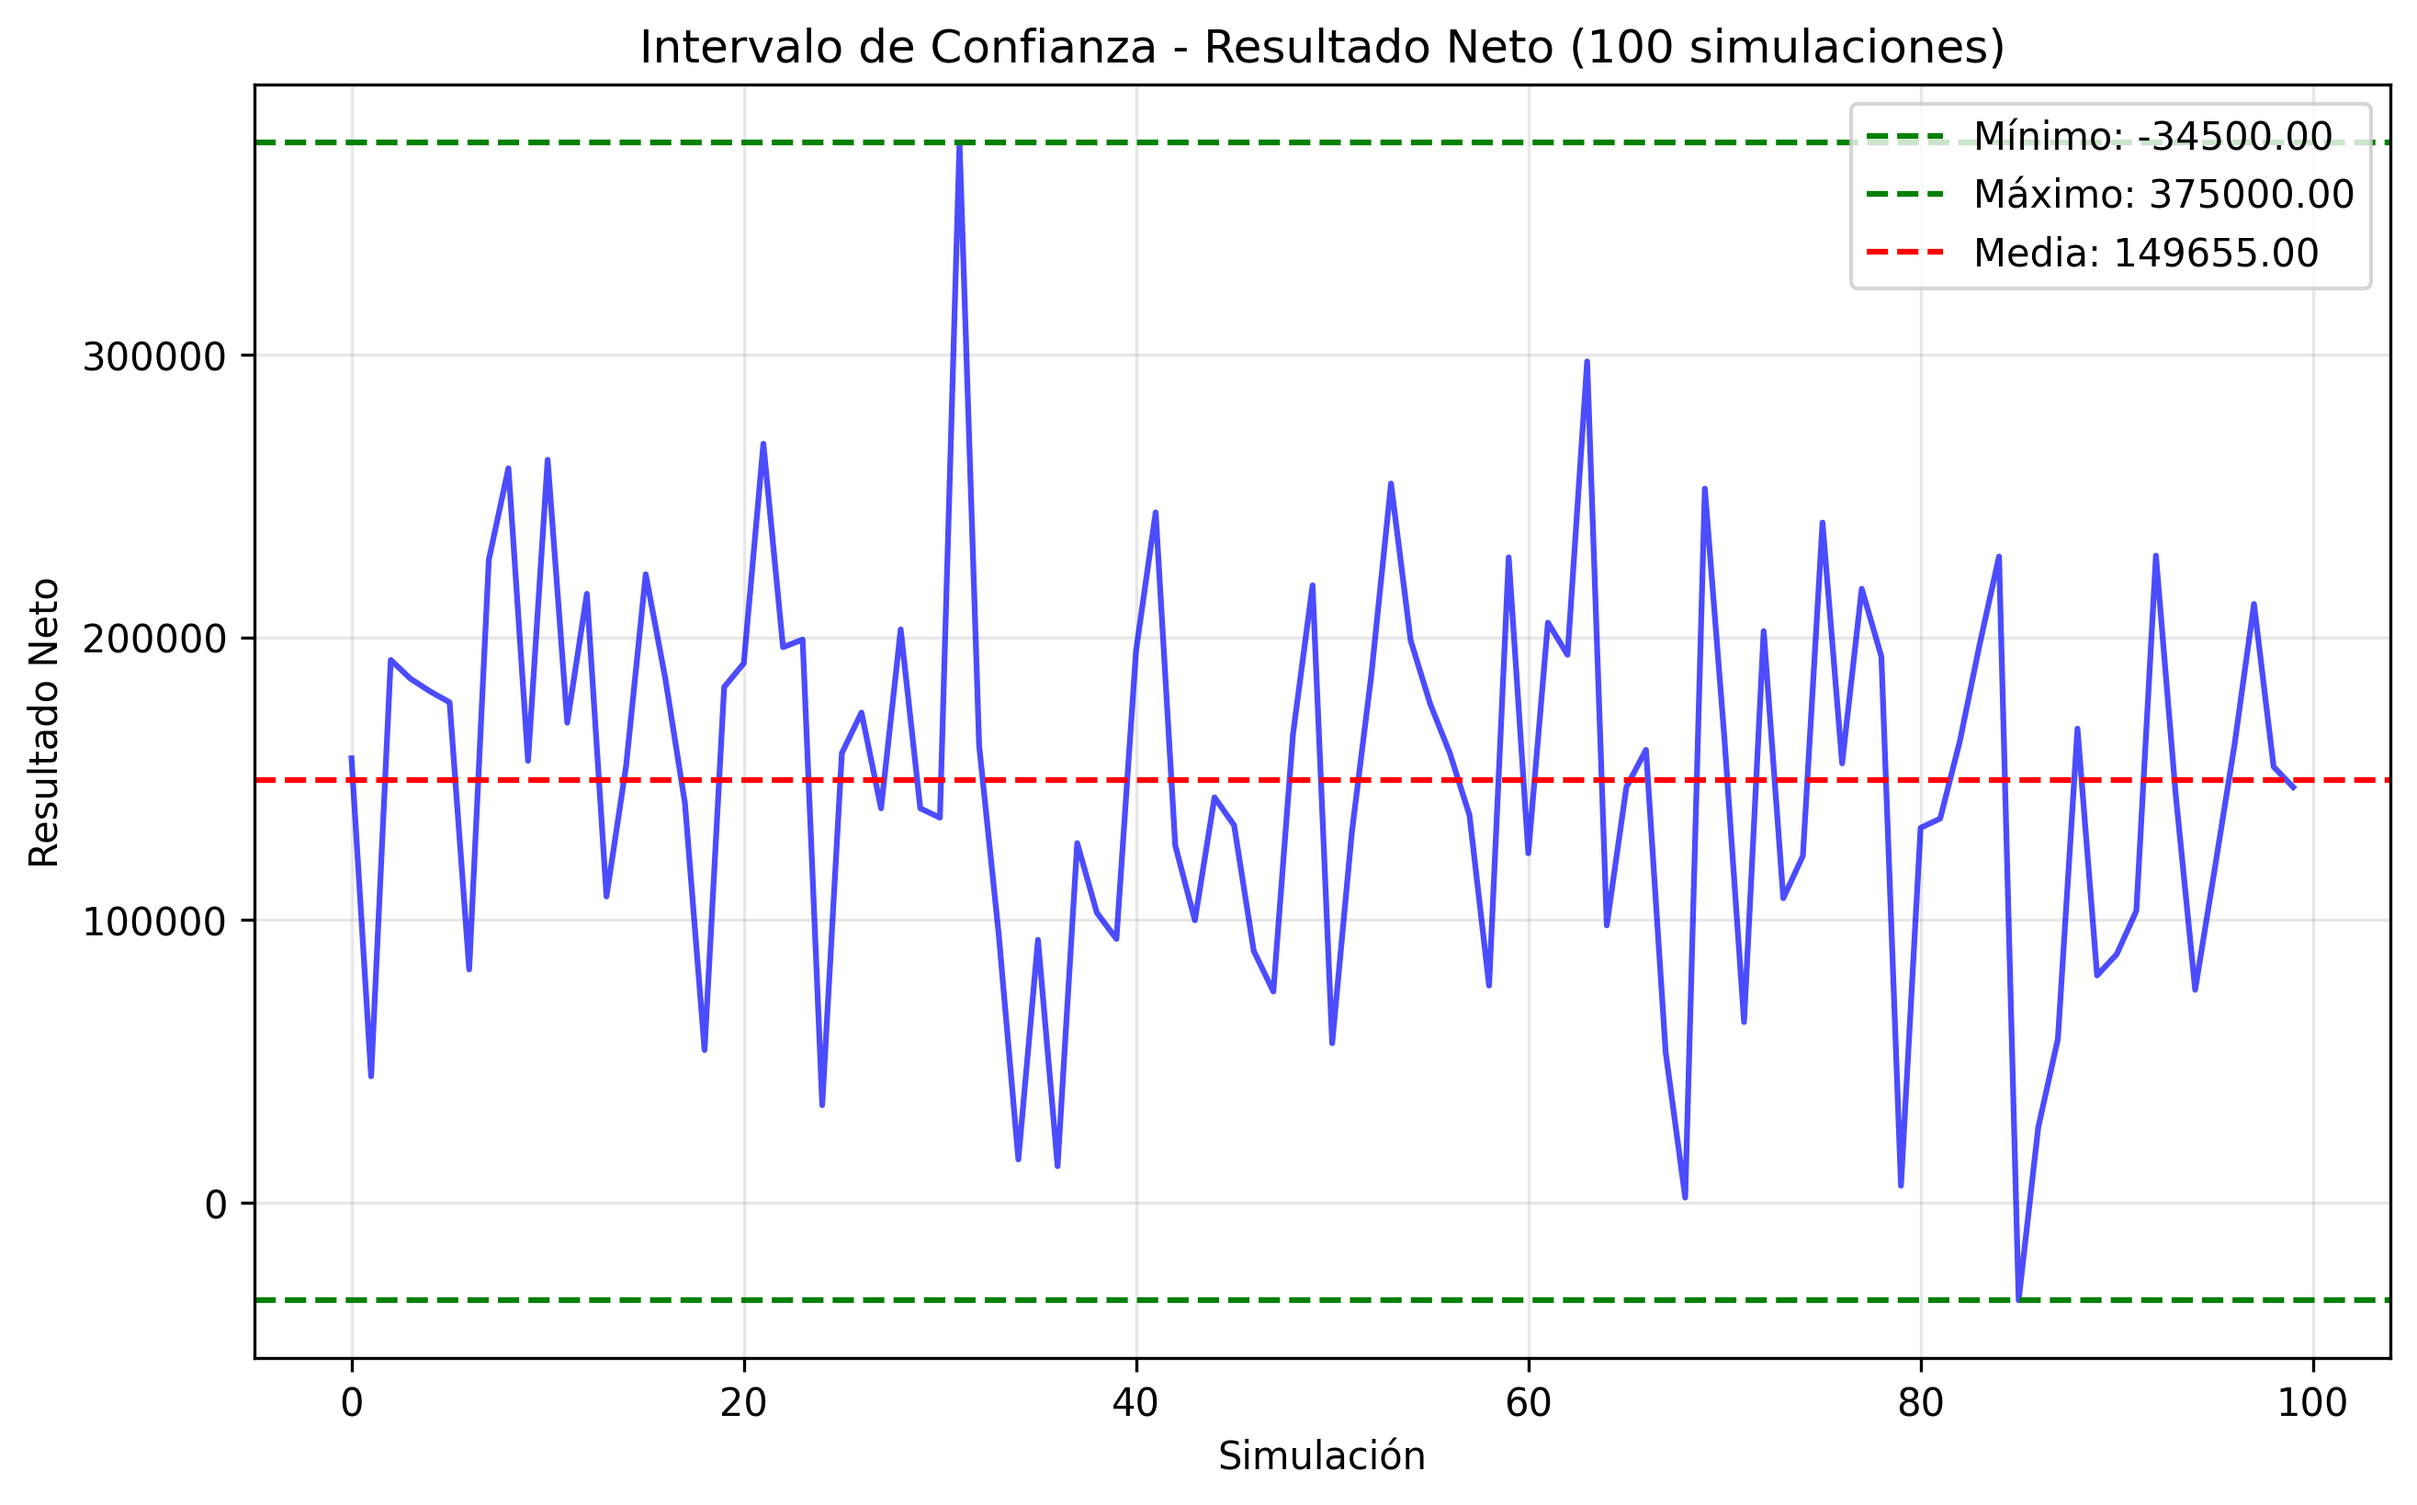
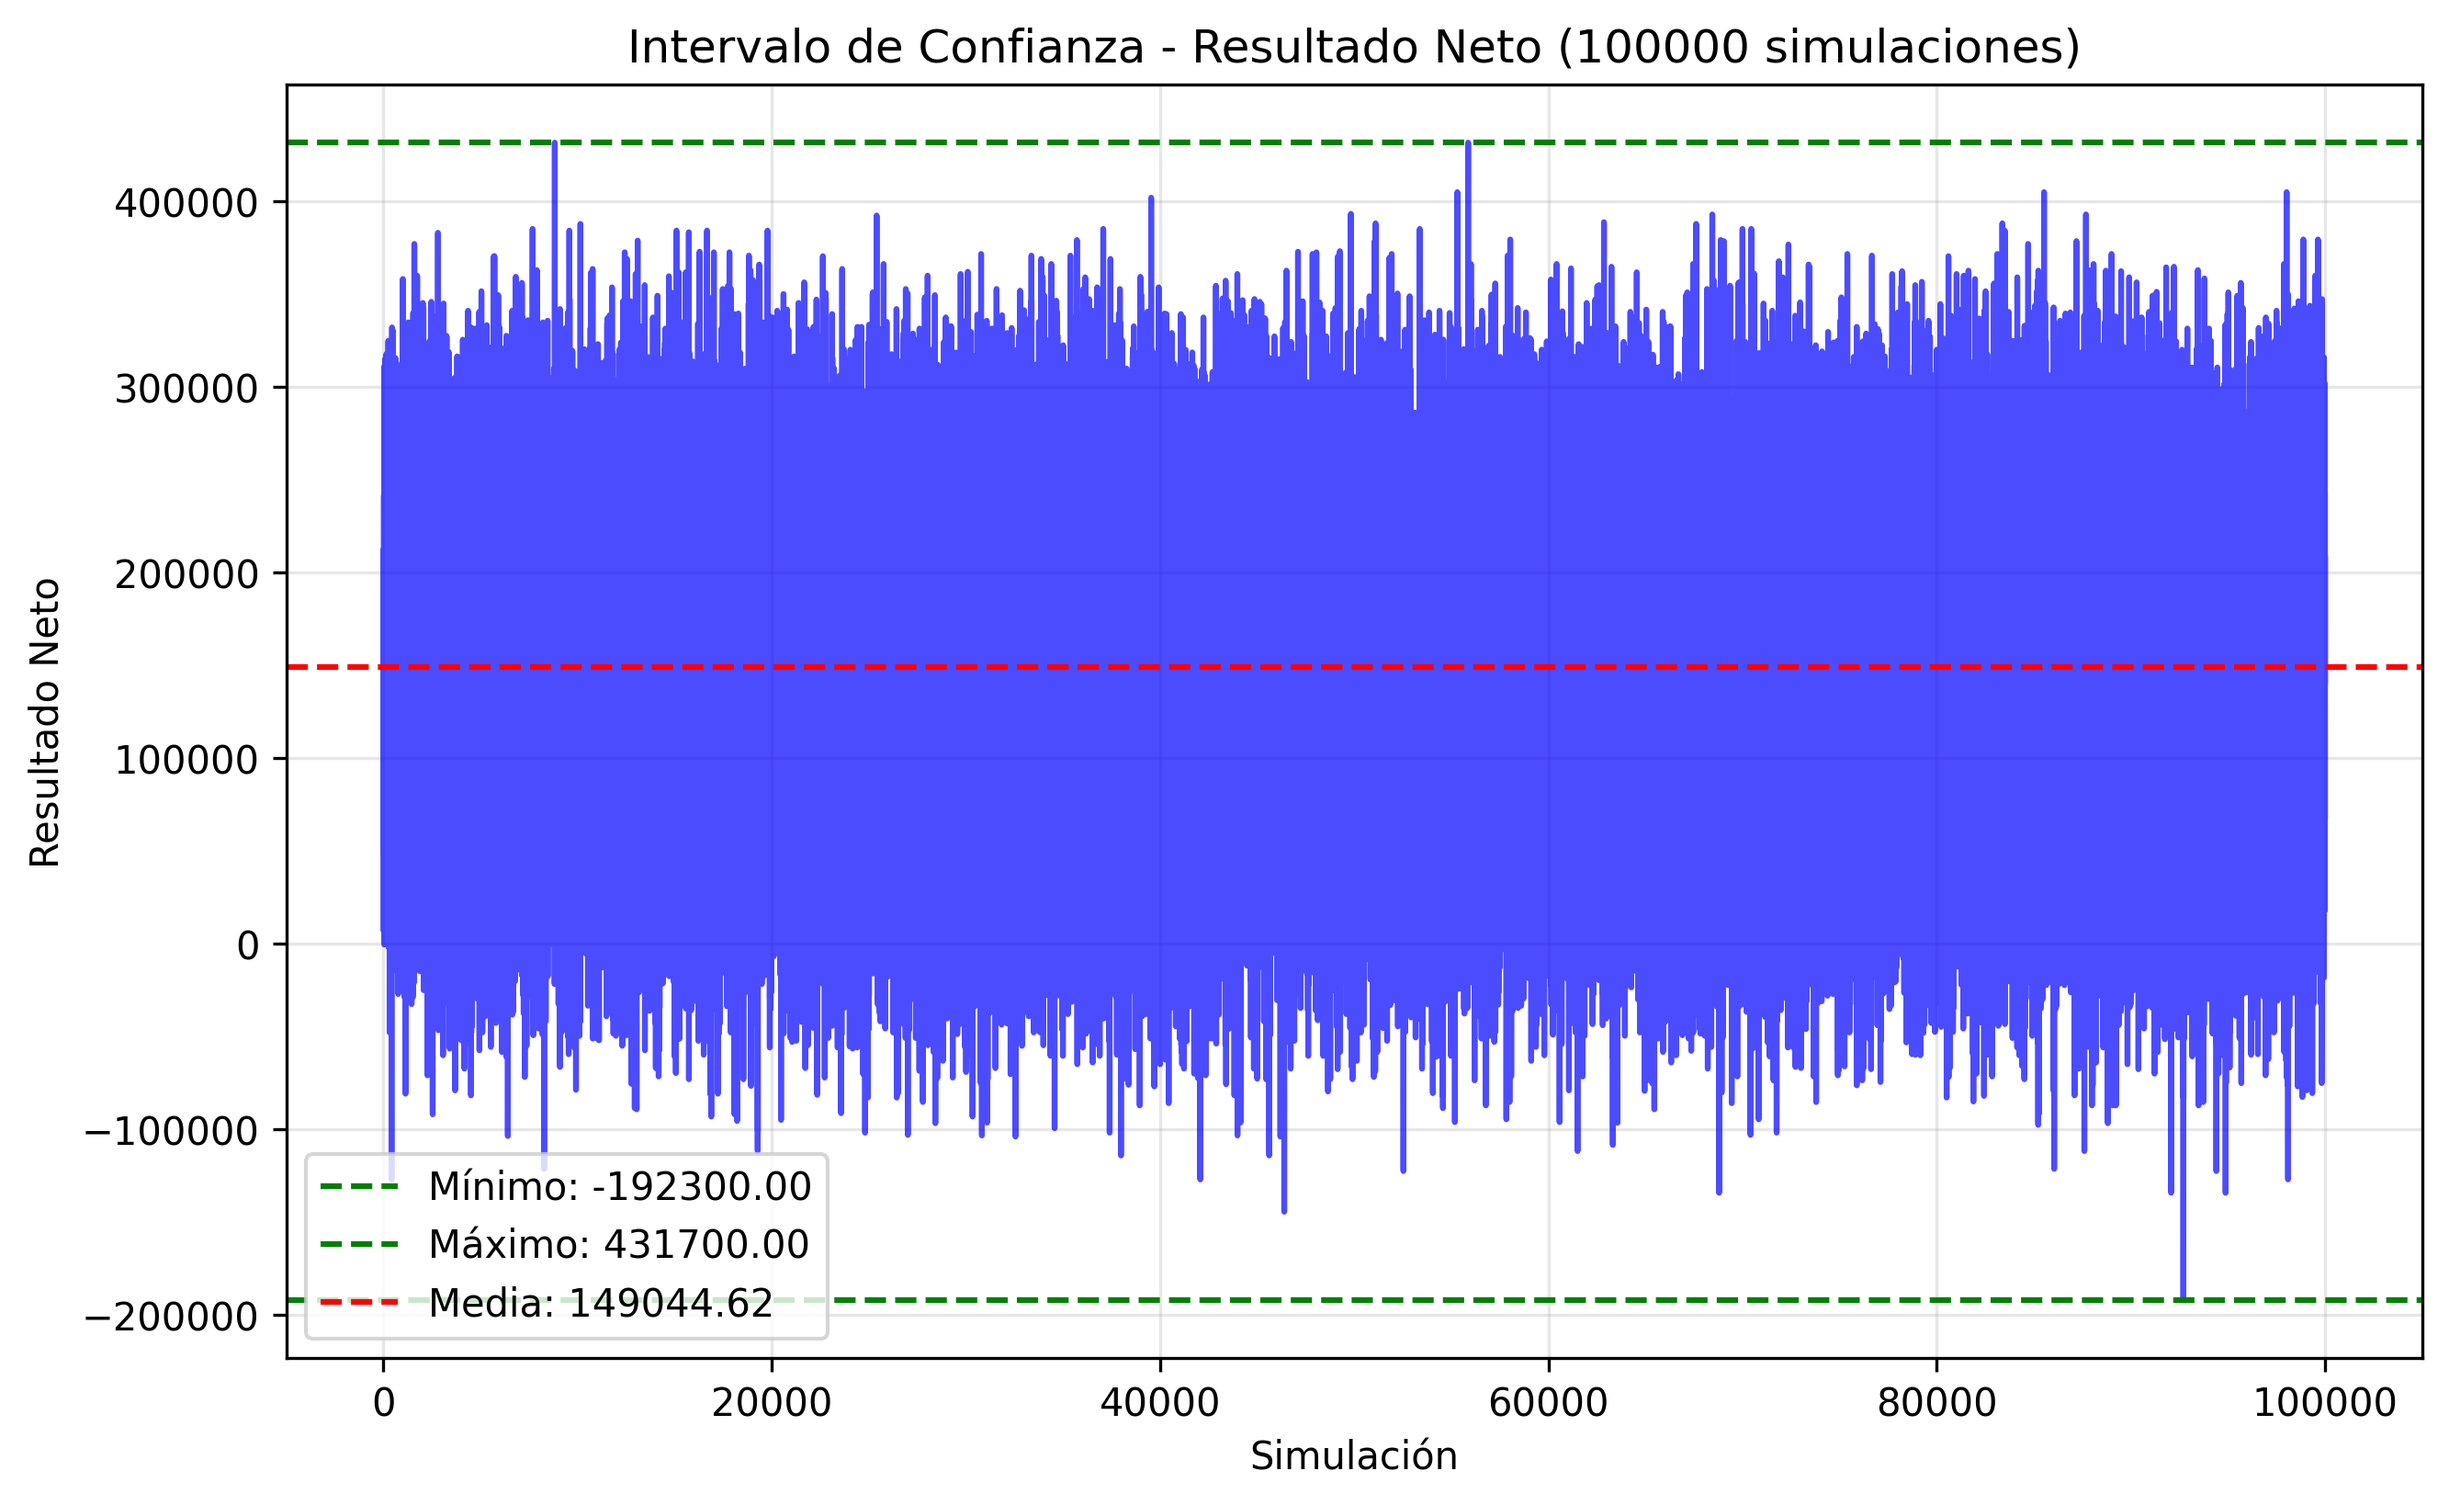
add criterio demanda maxima

diff --git a/generar_intervalos_de_confianza.py b/generar_intervalos_de_confianza.py
@@ -36,7 +36,7 @@ def ejecutar_analisis(resultados_netos):
 
 if __name__ == "__main__":
     
-    num_corridas = 100
+    num_corridas = 100_000
     print(f"Ejecutando {num_corridas} simulaciones...")
     resultados_netos = []
     
@@ -45,5 +45,7 @@ if __name__ == "__main__":
         cronograma = genera_demanda_diaria(dias_a_simular)
         resultado = simular_produccion_maxima(cronograma, N=3, produccion_inicial=60)
         resultados_netos.append(resultado['resultado_neto'])
+        print(f"Simulación {i+1}/{num_corridas}: Resultado Neto = {resultado['resultado_neto']}")
+        print("\n" + "*"*40)
 
     ejecutar_analisis(resultados_netos)

diff --git a/produccion_demanda_máxima.py b/produccion_demanda_máxima.py
@@ -44,7 +44,7 @@ def simular_produccion_maxima(cronograma_demanda, N=5, produccion_inicial=60):
             else:
                 historial = demandas_weekend
 
-            produccion_de_hoy = max(historial[-N:])
+            produccion_de_hoy = round(max(historial[-N:]) / 6) * 6
 
         unidades_vendidas_hoy = 0
         demanda_restante = demanda_hoy
